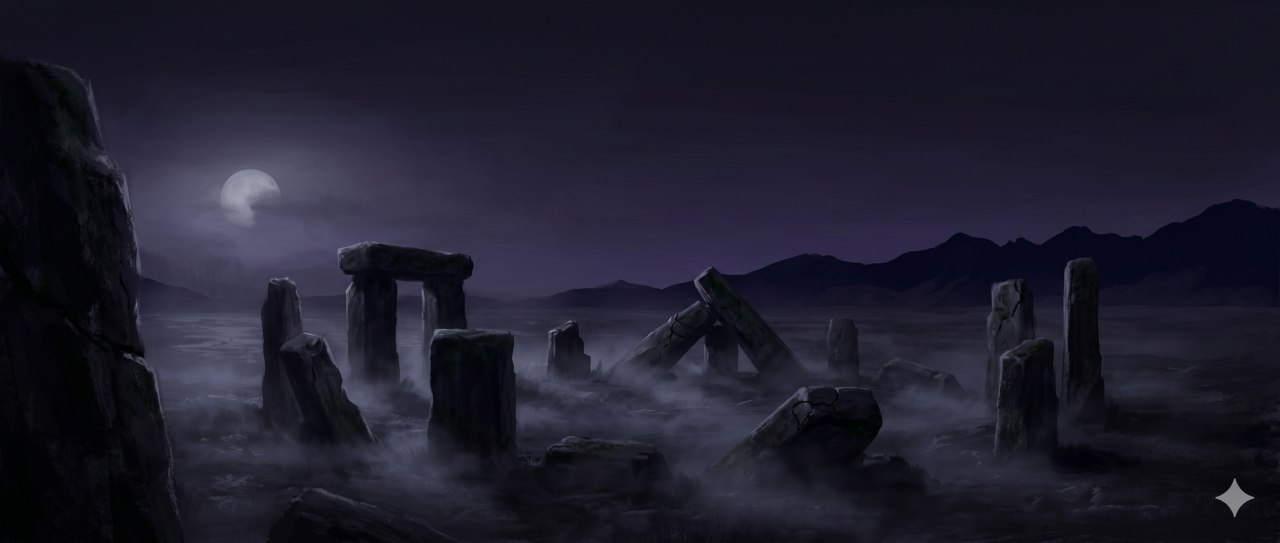
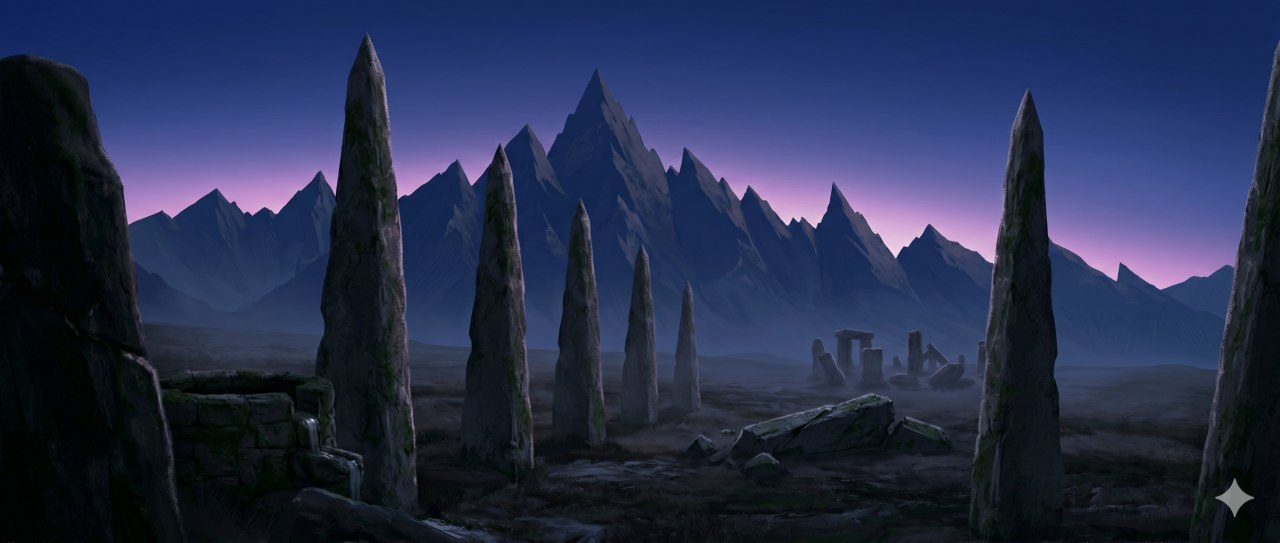
feat: per-rite full-page backgrounds + random song on load

diff --git a/src/ui.js b/src/ui.js
@@ -3,27 +3,35 @@
 import { initState, getValidMoves, applyMove, RULES } from './engine.js';
 import * as sfx from './sfx.js';
 
-// Per-rite background images (add more here as artwork arrives)
+// Per-rite background images
 const LEVEL_BACKGROUNDS = {
   1: './bg_rite1.jpg',
+  2: './bg_rite2.jpg',
+  3: './bg_rite3.jpg',
+  4: './bg_rite4.jpg',
+  5: './bg_rite5.jpg',
+  6: './bg_rite6.jpg',
 };
 
 function setLevelBg(levelId) {
+  const bgLayer   = document.getElementById('bg-layer');
   const starfield = document.getElementById('starfield');
   const bg = LEVEL_BACKGROUNDS[levelId];
-  if (bg) {
-    document.body.style.backgroundImage = `url("${bg}")`;
-    document.body.style.backgroundSize  = 'cover';
-    document.body.style.backgroundPosition = 'center';
-    if (starfield) starfield.style.opacity = '0.12';
-  } else {
-    document.body.style.backgroundImage = '';
-    if (starfield) starfield.style.opacity = '1';
+  if (bgLayer) {
+    if (bg) {
+      bgLayer.style.backgroundImage = `url("${bg}")`;
+      // dim the starfield overlay so the art shows through
+      if (starfield) starfield.style.opacity = '0.18';
+    } else {
+      bgLayer.style.backgroundImage = '';
+      if (starfield) starfield.style.opacity = '1';
+    }
   }
 }
 
 function clearLevelBg() {
-  document.body.style.backgroundImage = '';
+  const bgLayer = document.getElementById('bg-layer');
+  if (bgLayer) bgLayer.style.backgroundImage = '';
   const starfield = document.getElementById('starfield');
   if (starfield) starfield.style.opacity = '1';
 }

diff --git a/index.html b/index.html
@@ -41,17 +41,29 @@
       overflow-x: hidden;
     }
 
-    #starfield {
+    #bg-layer {
       position: fixed;
       inset: 0;
       z-index: 0;
       pointer-events: none;
-      background: radial-gradient(ellipse at 20% 15%, #0f1a3a 0%, #07112a 35%, #040810 70%);
+      background-color: #06070d;
+      background-size: cover;
+      background-position: center;
+      transition: background-image 0.8s ease, opacity 0.8s ease;
+    }
+
+    #starfield {
+      position: fixed;
+      inset: 0;
+      z-index: 1;
+      pointer-events: none;
+      /* dark overlay + stars particle canvas */
+      transition: opacity 0.8s ease;
     }
 
     #app {
       position: relative;
-      z-index: 1;
+      z-index: 2;
     }
 
     #app {
@@ -703,6 +715,7 @@
     }
   </style>
 </head>
+<div id="bg-layer"></div>
 <canvas id="starfield"></canvas>
 <div id="app"></div>
 <button id="music-btn" title="Toggle music">🔇</button>
@@ -1209,7 +1222,8 @@
     'Snowy Day at Home',
   ];
 
-  let idx     = 0;
+  // Start on a random track each page load
+  let idx     = Math.floor(Math.random() * TRACKS.length);
   let playing = false;
   let audio   = null;
 
